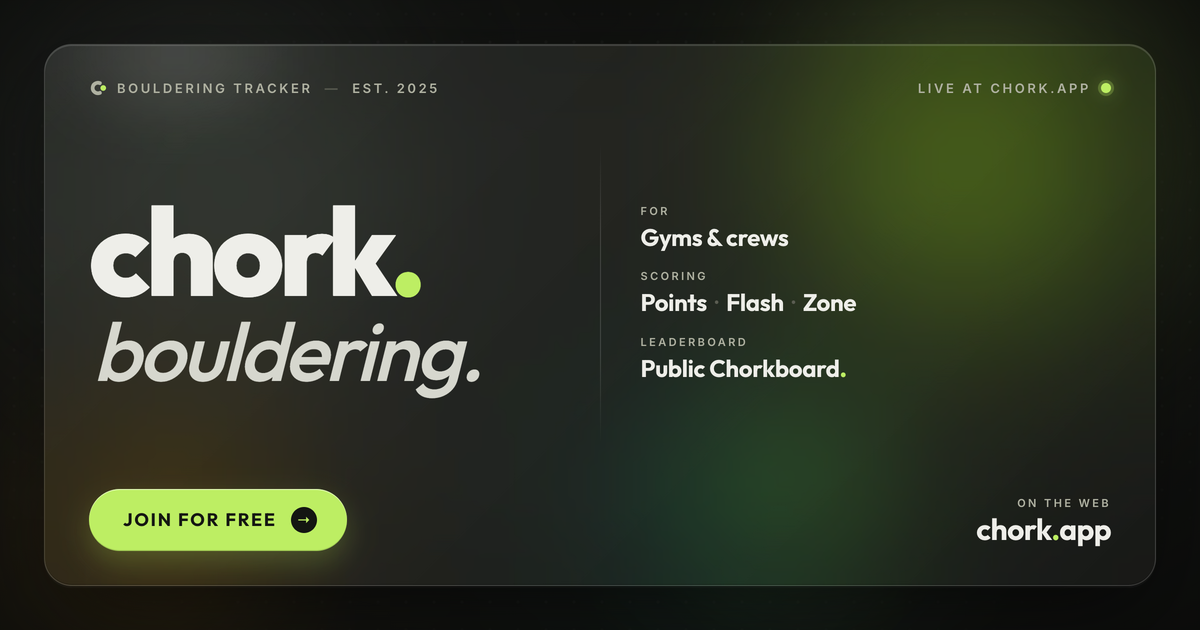
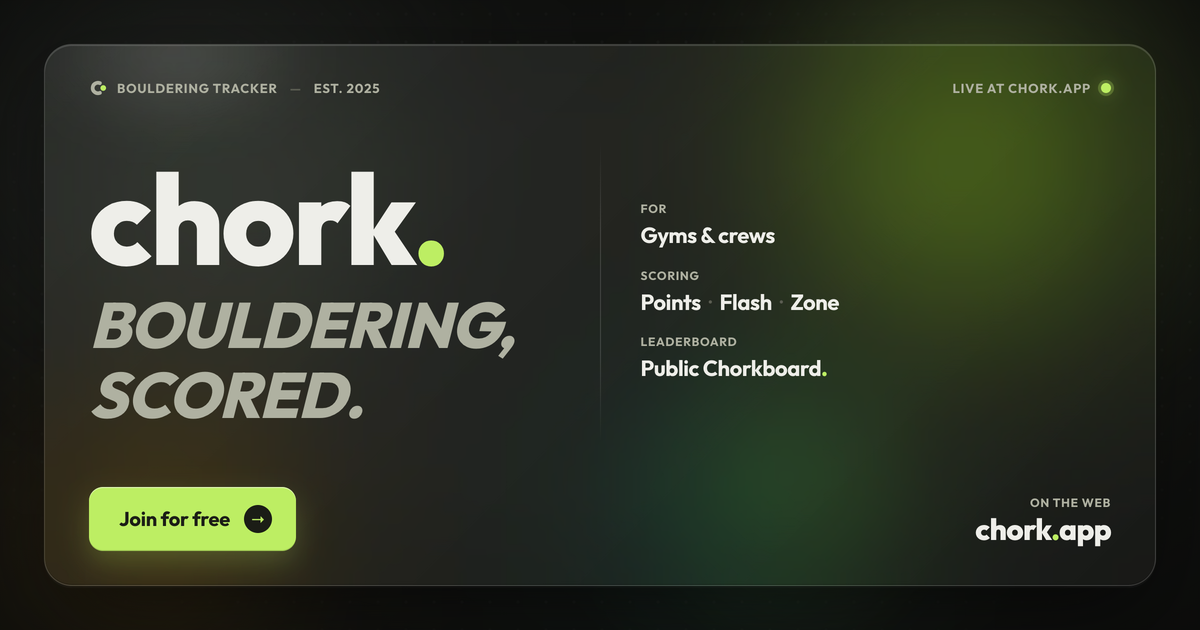
fix(og): align OG typography with the app's type system
Swaps the ad-hoc type choices for the app's canonical presets:

- Labels (eyebrow / status / meta / web) → `label` preset (Outfit
  600, uppercase, tracking 0.06em = --tracking-wide). Previous
  0.2em tracking was too generous and read as separate brand
  language.
- Hero secondary line → `display` preset (Outfit 900 italic
  UPPERCASE, tracking -0.02em) with step-11 colour — matches the
  landing hero's dual-sentence pattern exactly.
- Hero primary `chork.` wordmark stays on email convention
  (Outfit 800, tracking -0.025em) so the wordmark is identical
  between OG, nav, and every email.
- Meta values → `card-title` preset (Outfit 700, tracking -0.02em).
- Lime CTA → email-button convention (Outfit 700, tracking
  -0.01em, 14px radius, non-uppercase) — same mould as the Accept
  / Reset / Confirm buttons in the transactional emails.

Copy nudged to "Bouldering, scored." so the secondary line reads
as a full sentence once uppercased by the display preset.

diff --git a/scripts/og-render.html b/scripts/og-render.html
@@ -146,14 +146,16 @@
     position: relative;
     z-index: 2;
   }
+  /* `label` preset — Outfit 600, uppercase, tracking 0.06em (wide), xs */
   .eyebrow {
     display: inline-flex;
     align-items: center;
     gap: 10px;
-    font-family: 'Inter', sans-serif;
+    font-family: 'Outfit', sans-serif;
     font-size: 13px;
     font-weight: 600;
-    letter-spacing: 0.2em;
+    line-height: 1.25;
+    letter-spacing: 0.06em;
     text-transform: uppercase;
     color: var(--olive-11);
   }
@@ -168,10 +170,11 @@
     display: inline-flex;
     align-items: center;
     gap: 10px;
-    font-family: 'Inter', sans-serif;
+    font-family: 'Outfit', sans-serif;
     font-size: 13px;
     font-weight: 600;
-    letter-spacing: 0.2em;
+    line-height: 1.25;
+    letter-spacing: 0.06em;
     text-transform: uppercase;
     color: var(--olive-11);
   }
@@ -198,25 +201,28 @@
     flex-direction: column;
     gap: 0px;
   }
+  /* Wordmark — email convention: Outfit 800, tracking -0.025em */
   .hero .line1 {
     font-family: 'Outfit', sans-serif;
     font-weight: 800;
-    font-size: 124px;
-    line-height: 0.9;
-    letter-spacing: -0.045em;
+    font-size: 128px;
+    line-height: 1;
+    letter-spacing: -0.025em;
     color: var(--olive-12);
   }
   .hero .line1 .dot { color: var(--lime-9); }
+  /* `display` preset — Outfit 900, italic, UPPERCASE, tracking -0.02em, leading 1.1
+     Secondary-sentence colour (step 11) per the app's hero convention. */
   .hero .line2 {
     font-family: 'Outfit', sans-serif;
     font-style: italic;
-    font-weight: 500;
-    font-size: 82px;
-    line-height: 0.98;
-    letter-spacing: -0.03em;
-    color: #d6d7ce;
-    margin-top: 4px;
-    padding-left: 4px;
+    font-weight: 900;
+    font-size: 64px;
+    line-height: 1.1;
+    letter-spacing: -0.02em;
+    text-transform: uppercase;
+    color: var(--olive-11);
+    margin-top: 8px;
   }
 
   .divider {
@@ -232,21 +238,24 @@
     gap: 18px;
     padding-left: 4px;
   }
+  /* `label` preset */
   .meta-row .label {
-    font-family: 'Inter', sans-serif;
-    font-size: 11px;
+    font-family: 'Outfit', sans-serif;
+    font-size: 12px;
     font-weight: 600;
-    letter-spacing: 0.22em;
+    line-height: 1.25;
+    letter-spacing: 0.06em;
     text-transform: uppercase;
     color: var(--olive-11);
     margin-bottom: 6px;
   }
+  /* `card-title` preset — Outfit 700, tight tracking, snug leading, lg */
   .meta-row .value {
     font-family: 'Outfit', sans-serif;
     font-weight: 700;
-    font-size: 24px;
-    line-height: 1.15;
-    letter-spacing: -0.015em;
+    font-size: 22px;
+    line-height: 1.25;
+    letter-spacing: -0.02em;
     color: var(--olive-12);
   }
   .meta-row .value .dot { color: var(--lime-9); font-weight: 800; }
@@ -261,34 +270,35 @@
     z-index: 2;
   }
 
+  /* Hero CTA — mirrors the email template: Outfit 700, tracking -0.01em,
+     non-uppercase. Sized up from the email's 16px for OG legibility. */
   .cta {
     display: inline-flex;
     align-items: center;
     gap: 14px;
-    padding: 18px 30px 18px 34px;
+    padding: 18px 24px 18px 30px;
     background: var(--lime-9);
-    color: #141612;
+    color: #1b1d16;
     font-family: 'Outfit', sans-serif;
     font-weight: 700;
-    font-size: 18px;
-    letter-spacing: 0.1em;
-    text-transform: uppercase;
-    border-radius: 999px;
+    font-size: 20px;
+    line-height: 1;
+    letter-spacing: -0.01em;
+    border-radius: 14px;
     box-shadow:
       0 12px 28px rgba(189, 238, 99, 0.22),
       inset 0 1px 0 rgba(255,255,255,0.5),
       inset 0 -1px 0 rgba(0,0,0,0.15);
-    line-height: 1;
   }
   .cta .arrow {
-    width: 26px; height: 26px;
+    width: 28px; height: 28px;
     border-radius: 50%;
-    background: #141612;
+    background: #1b1d16;
     color: var(--lime-9);
     display: inline-flex;
     align-items: center;
     justify-content: center;
-    font-size: 14px;
+    font-size: 15px;
     font-weight: 700;
     letter-spacing: 0;
   }
@@ -296,20 +306,23 @@
   .web {
     text-align: right;
   }
+  /* `label` preset */
   .web .label {
-    font-family: 'Inter', sans-serif;
-    font-size: 11px;
+    font-family: 'Outfit', sans-serif;
+    font-size: 12px;
     font-weight: 600;
-    letter-spacing: 0.22em;
+    line-height: 1.25;
+    letter-spacing: 0.06em;
     text-transform: uppercase;
     color: var(--olive-11);
     margin-bottom: 4px;
   }
+  /* Wordmark convention — Outfit 800, tracking -0.025em */
   .web .url {
     font-family: 'Outfit', sans-serif;
-    font-weight: 700;
+    font-weight: 800;
     font-size: 30px;
-    letter-spacing: -0.02em;
+    letter-spacing: -0.025em;
     color: var(--olive-12);
     line-height: 1;
   }
@@ -350,7 +363,7 @@
       <div class="main">
         <div class="hero">
           <div class="line1">chork<span class="dot">.</span></div>
-          <div class="line2">bouldering.</div>
+          <div class="line2">Bouldering,<br>scored.</div>
         </div>
         <div class="divider"></div>
         <div class="meta">
